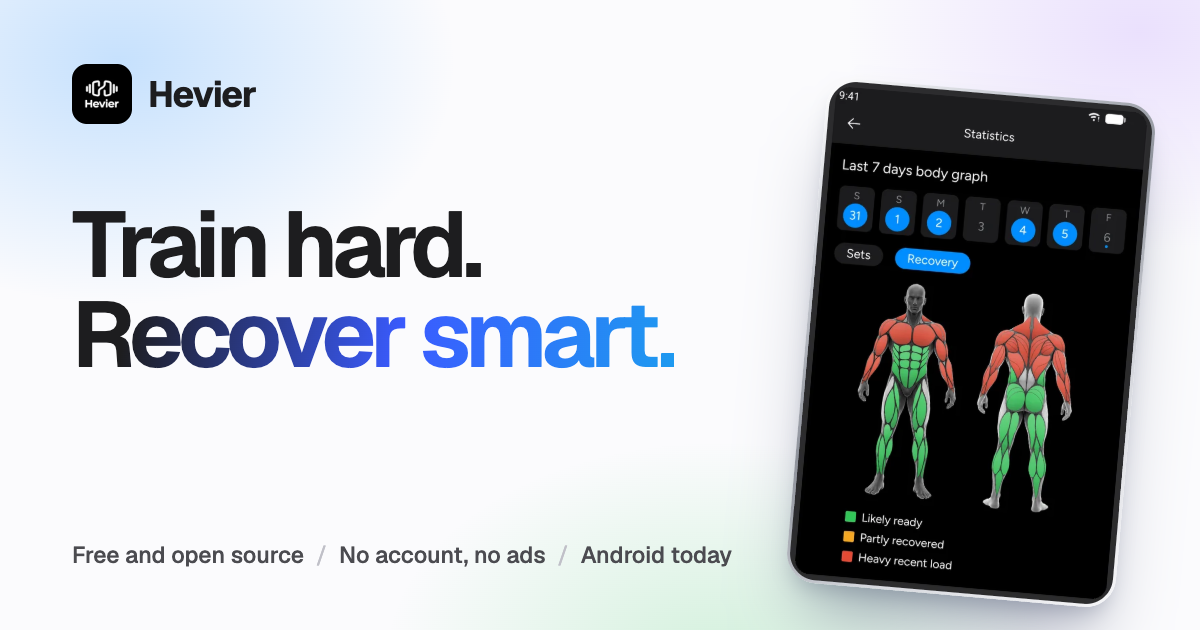
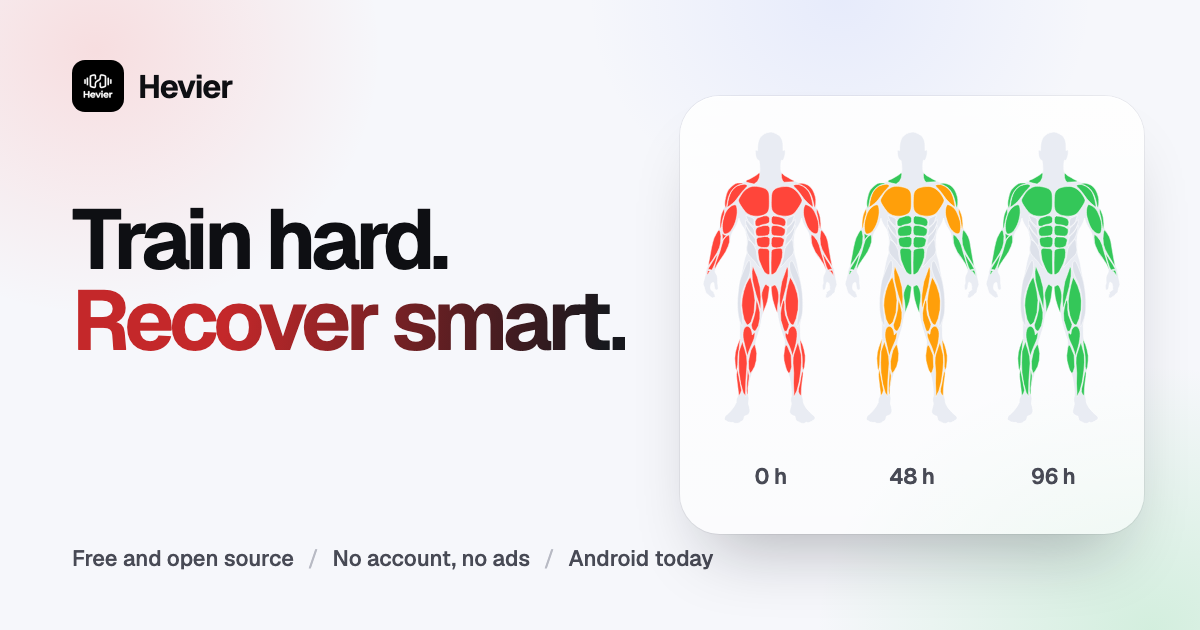
feat(web): og image and cleanup

diff --git a/apps/web/src/styles/hero.css b/apps/web/src/styles/hero.css
@@ -182,6 +182,27 @@
   transform: translateY(2.4%);
   filter: blur(18px);
 }
+.ag-fig::after {
+  content: '';
+  position: absolute;
+  left: 4%;
+  right: 4%;
+  bottom: -1%;
+  height: 3.4%;
+  border-radius: 50%;
+  background: radial-gradient(closest-side, rgb(20 28 70 / 0.3), transparent);
+  filter: blur(5px);
+  pointer-events: none;
+}
+.ag-stage::after,
+.ag-dock::after {
+  content: '';
+  position: absolute;
+  inset: 0;
+  border-radius: inherit;
+  background: radial-gradient(90% 130% at 0% 0%, color-mix(in srgb, var(--tone) 11%, transparent), transparent 64%);
+  pointer-events: none;
+}
 .ag-fig .body:not(.halo) {
   position: relative;
 }

diff --git a/apps/web/src/styles/sections-2.css b/apps/web/src/styles/sections-2.css
@@ -155,7 +155,7 @@
   .p-widgets {
     grid-column: span 6;
   }
-  .wgrid {
+  .p-widgets .wgrid {
     grid-template-columns: repeat(4, 1fr);
   }
 }

diff --git a/AGENTS.md b/AGENTS.md
@@ -14,7 +14,7 @@ pnpm + Turborepo. `pnpm-workspace.yaml` lists `apps/*` and `packages/*`; shared 
 
 - `apps/mobile` (`@hevier/mobile`) — the Expo app (`app/`, `components/`, `hooks/`, `stores/`, `lib/`, `db/`, `constants/`, `types/`, `modules/`, `plugins/`, `assets/`, `app.json`, `scripts/`). Run every Expo command from this folder. `@/` imports resolve inside it.
 - `apps/sync` (`@hevier/sync`) — Hevier Sync, the PC backup program.
-- `apps/web` (`@hevier/web`) — the landing page: Next.js App Router, Tailwind v4, static export to `out/`. No analytics or third-party scripts, and it must stay that way: the product promises none. Screenshots in `public/screens/` come from `docs/images/screens/` (`node scripts/optimize-images.mjs`). Never add openGym exercise pictures.
+- `apps/web` (`@hevier/web`) — the landing page: Next.js App Router, Tailwind v4, static export to `out/`. No analytics or third-party scripts, and it must stay that way: the product promises none. The page draws the app screens in HTML (no screenshots); `public/screens/app-icon.webp` comes from `node scripts/optimize-images.mjs`, and `public/og.png` from `node scripts/make-og.mjs`. Never add openGym exercise pictures.
 - `packages/shared` (`@hevier/shared`) — sync protocol used by the app and `apps/sync`.
 - `packages/catalogue` (`@hevier/catalogue`) — exercise catalogue JSON + openGym notice.
 - `packages/config-typescript`, `packages/config-eslint` — shared tsconfig / eslint config.
